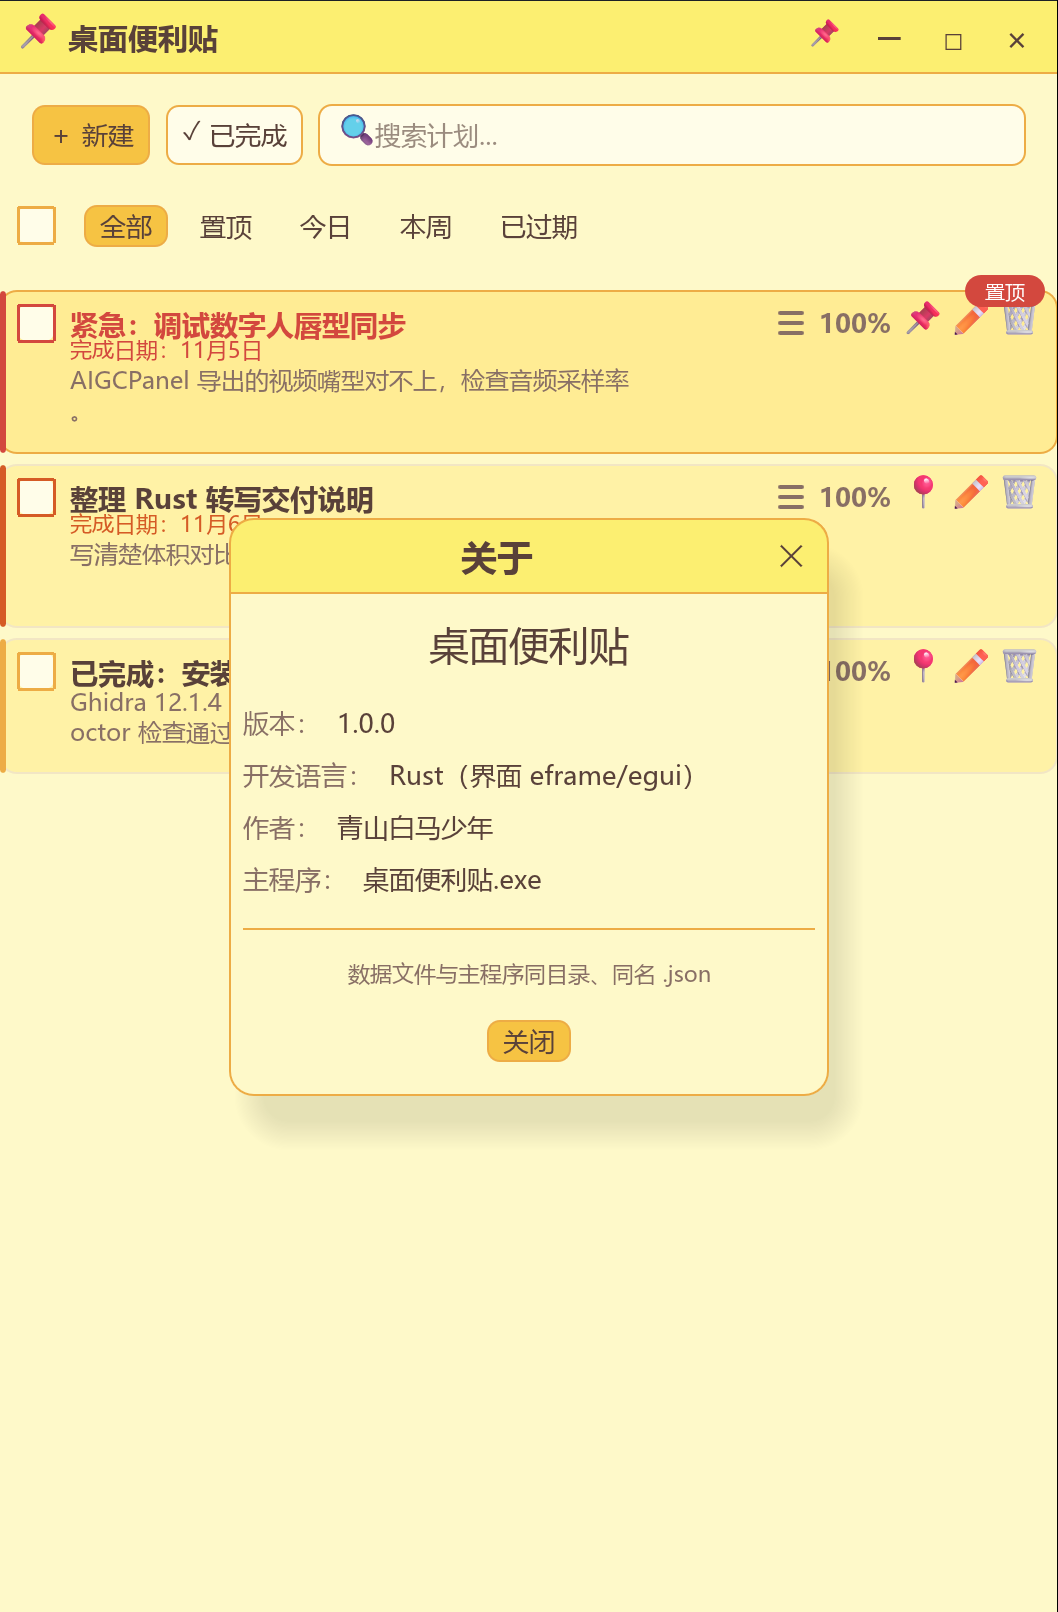
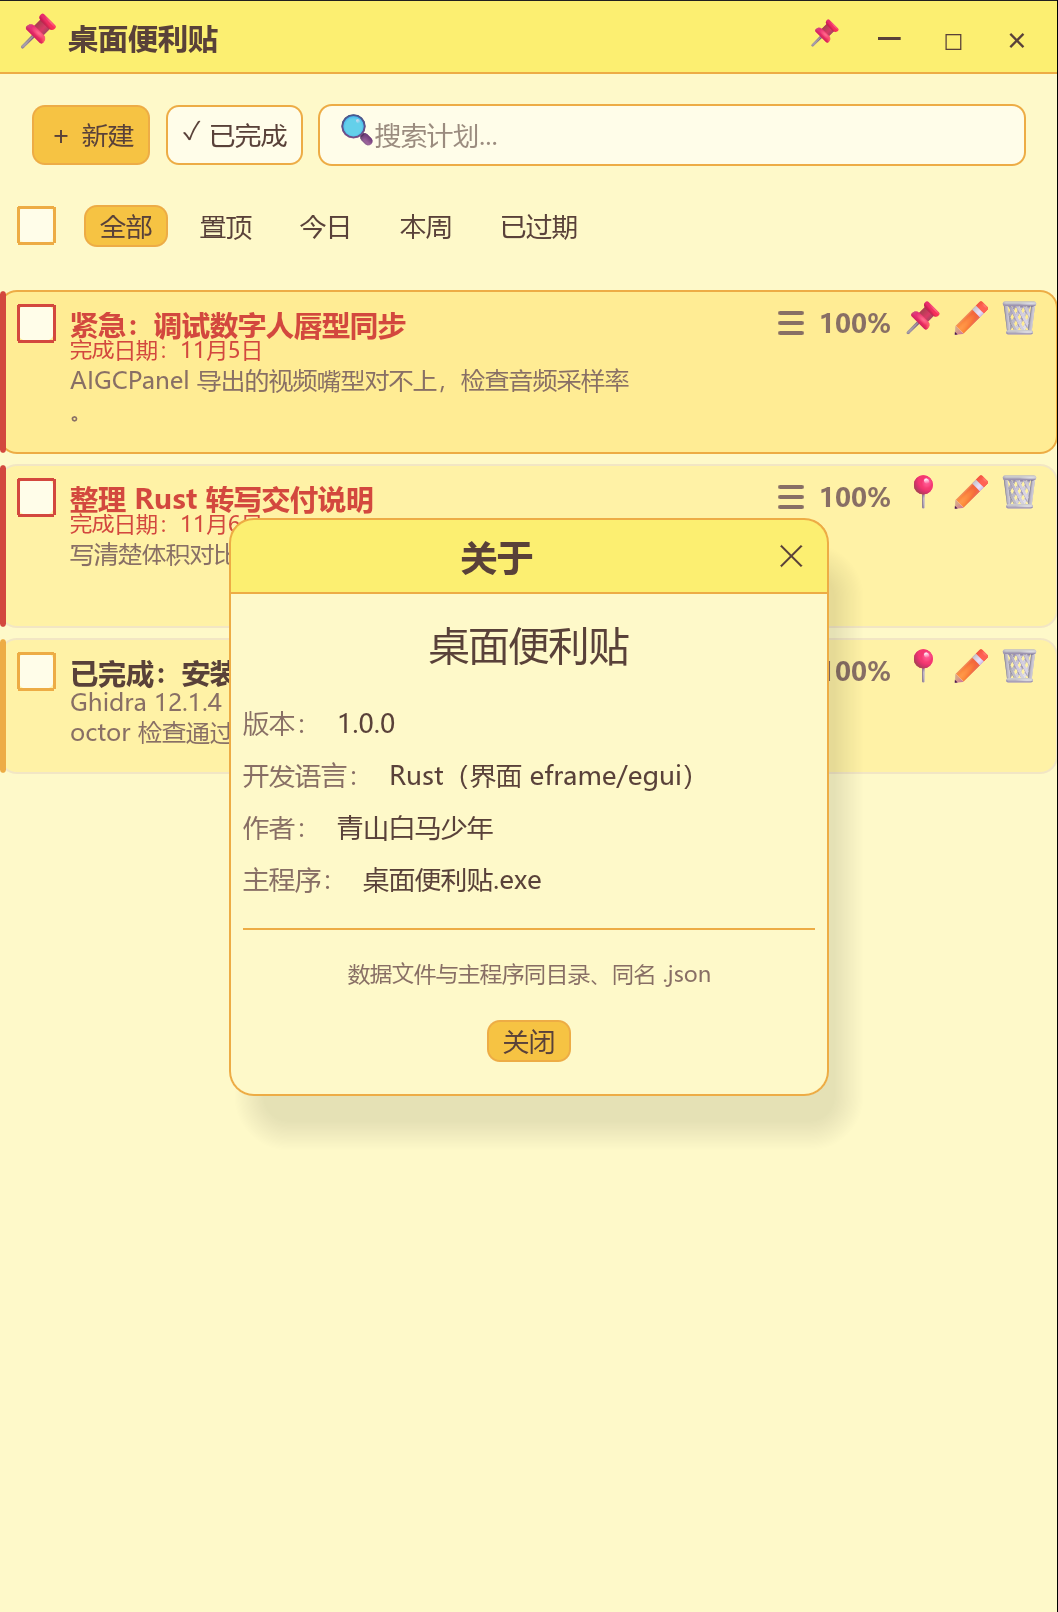
feat: 置顶卡片去掉右上角"置顶"角标
- 置顶状态改由更深的底色、橙色左条与红色图钉图标共同标识
- 列表顶部留白改为标签行与首卡之间的普通呼吸间距

Changed region(s): [[0.0624, 0.2792, 0.3431, 0.3412], [0.9045, 0.1551, 0.9981, 0.2171], [0.0, 0.2792, 0.0312, 0.3722]]

diff --git a/src/main.rs b/src/main.rs
@@ -1966,7 +1966,7 @@ impl Planner {
         ScrollArea::vertical()
             .auto_shrink([false, false])
             .show(ui, |ui| {
-                // 顶部留白：置顶徽章画在卡片上方8px，没留白会被滚动区裁掉
+                // 顶部留白：标签行与首张卡片之间的呼吸间距
                 ui.add_space(12.0);
                 for item in &visible {
                     self.item_card(ui, ctx, item);
@@ -2318,21 +2318,6 @@ impl Planner {
             }
         }
 
-        // 置顶徽章
-        if item.is_pinned && !item.is_completed {
-            let badge = Rect::from_min_size(
-                pos2(rect.right() - 46.0, rect.top() - 8.0),
-                vec2(40.0, 16.0),
-            );
-            p.rect_filled(badge, CornerRadius::same(8), C_RED);
-            p.text(
-                badge.center(),
-                Align2::CENTER_CENTER,
-                "置顶",
-                FontId::proportional(10.0),
-                Color32::WHITE,
-            );
-        }
     }
 
     fn edit_modal(&mut self, ctx: &Context) {
